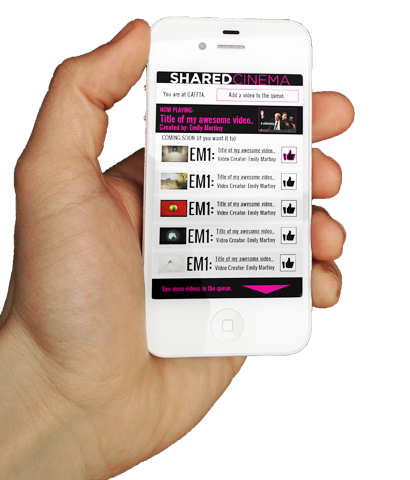
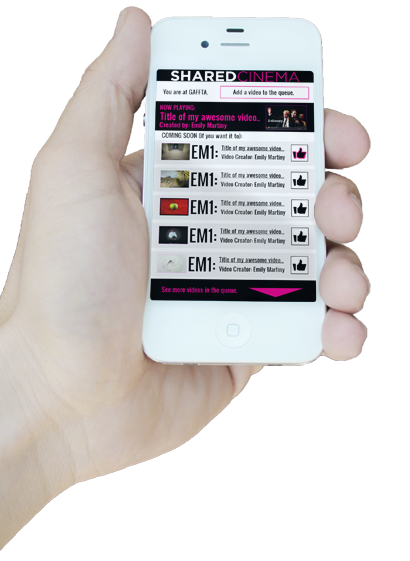
Updates

diff --git a/index.html b/index.html
@@ -20,6 +20,9 @@
 
         
         <![endif]-->
+
+        <script type="text/javascript" src="http://use.typekit.com/bui8upq.js"></script>
+        <script type="text/javascript">try{Typekit.load();}catch(e){}</script>
         
     </head>
     
@@ -92,7 +95,7 @@ used and hacked upon in ways we have to yet to image!</h3>
                         
                   </div>  <div class="line"></div>  <div class="articleBody clear"></div> <div class="line"></div> 
                         <div class="image">
-                 <img align="center" src="screengrab.png">
+                 <img align="center" src="Projection_Screen_Mockup3.jpg">
                
                     </div>
               
@@ -113,9 +116,5 @@ used and hacked upon in ways we have to yet to image!</h3>
 		</div> <!-- Closing the #page section -->
         
         <!-- JavaScript Includes -->
-        
-        <script type="text/javascript" src="http://ajax.googleapis.com/ajax/libs/jquery/1.3.2/jquery.min.js"></script>
-        <script type="text/javascript" src="jquery.scrollTo-1.4.2/jquery.scrollTo-min.js"></script>
-        <script type="text/javascript" src="script.js"></script>
     </body>
 </html>

diff --git a/style2.css b/style2.css
@@ -5,13 +5,12 @@
        
 }
 
-
 body{
 	/* Setting the default text color, size, page background and a font stack: */
 	font-size:0.825em;
 	color:#fcfcfc;
   	background-image:url('concrete.jpg');
-	font-family:Arial, Helvetica, sans-serif;
+	font-family: 'proxima-nova-condensed', Arial, Helvetica, sans-serif;
 }
 
 /* Hyperlink Styles: */
@@ -33,8 +32,7 @@ a img{
 /* Headings: */
 
 h1,h2,h3{
-	font-family:"Myriad Pro","Helvetica Neue",Helvetica,Arial,Sans-Serif;
-	text-shadow:0 1px 1px black;
+
 }
 
 h1{
@@ -46,7 +44,6 @@ h1{
 
 h3{
 	/* The slogan text */
-	font-family:forte,"Myriad Pro","Helvetica Neue",Helvetica,Arial,Sans-Serif;
 	font-size:1.5em;
 	font-weight:normal;
 	margin:0 0 1em;
@@ -56,9 +53,8 @@ h3{
 
 h2{
 	font-size:2.2em;
-	font-weight:normal;
+	font-weight:bold;
 	letter-spacing:0.01em;
-	text-transform:uppercase;
 	color:#f00087;
 }
 
@@ -166,7 +162,6 @@ div.article{
 	padding:20px;
         background-color: #FFFFFF;
 	opacity:0.5;
-	text-shadow:0 2px 0 black;
 }
 
 div.image{
@@ -181,11 +176,10 @@ div.image{
 }
 
 div.imageX{
-	padding:10px;
+	padding:10px 10px 10px 0;
 	position: relative;
 	width:200px;
 	float: left;
-	margin-left:15px;
 	
   
 }
